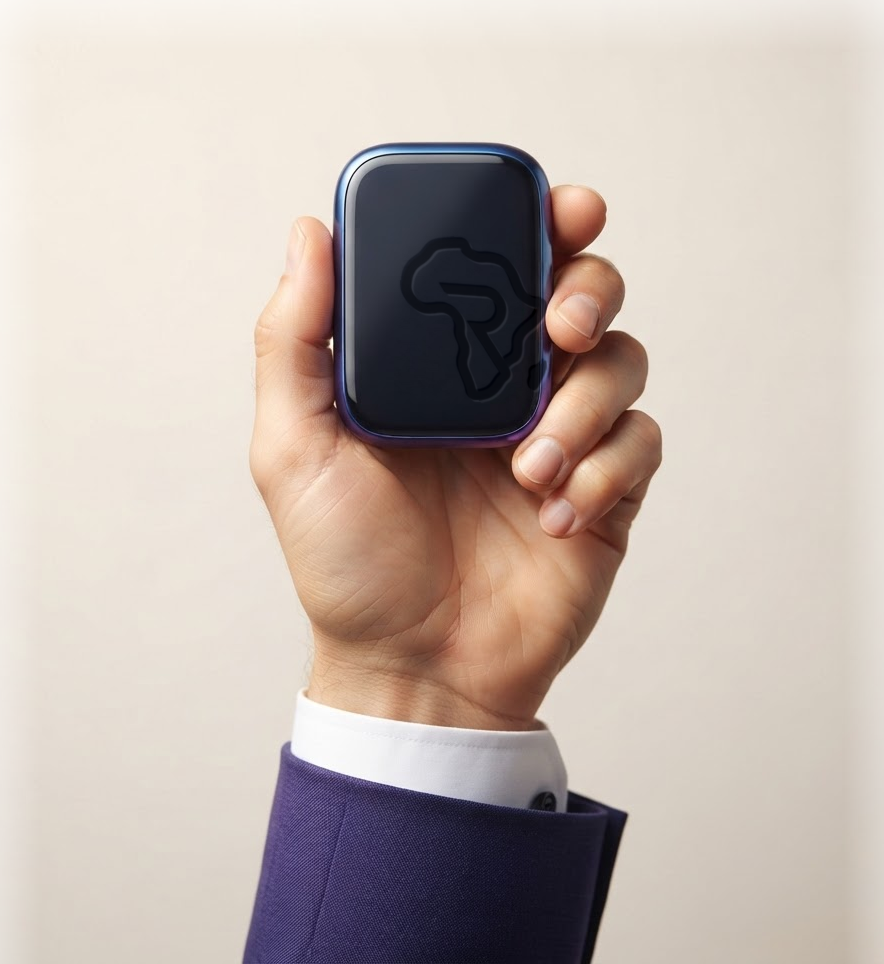
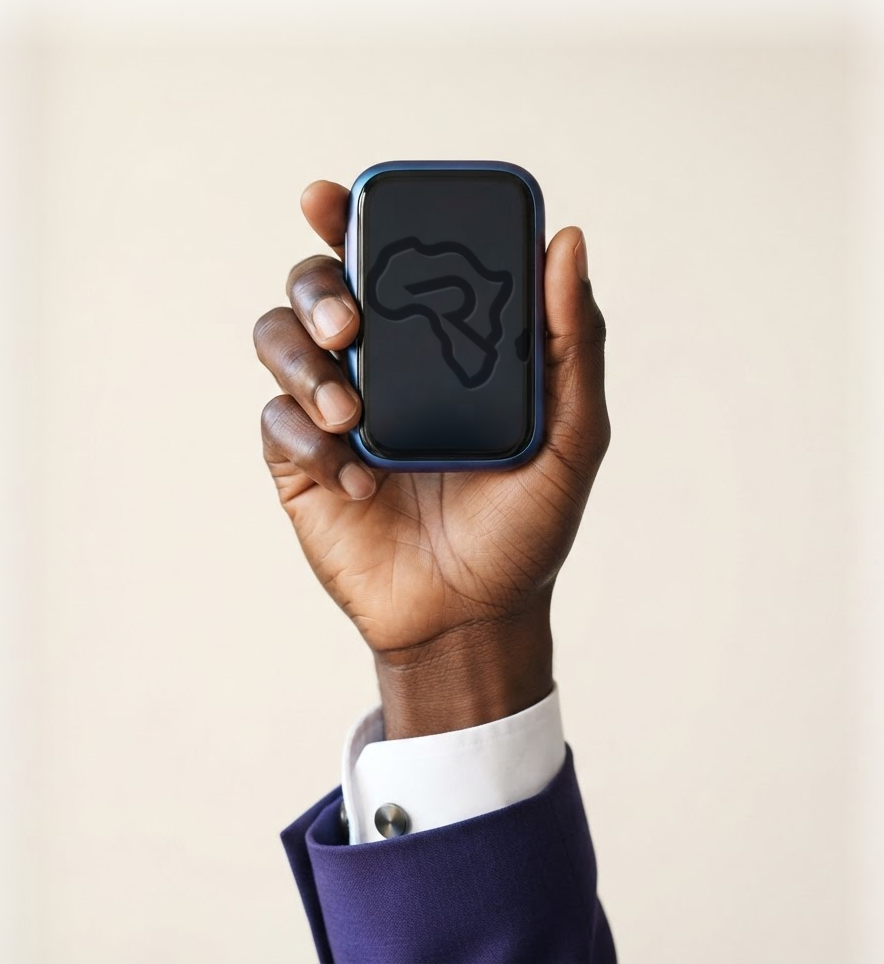
Signature hero live: engraved emblem on device, new copy and art direction

Changed region(s): [[0.0611, 0.1245, 1.0, 1.0]]

diff --git a/src/sections/Hero.jsx b/src/sections/Hero.jsx
@@ -1,39 +1,60 @@
-import { LogoFull } from '../components/Logo.jsx';
 import { Arrow } from '../components/Icons.jsx';
 
 /*
- * Hero. Composition follows the reference's principles (minimal navigation,
- * centred headline, two calls to action, faint technical detail, one strong
- * focal object) but with AFRIVERSE branding. The focal object is the official
- * logo on a dark panel; no stock photography or fabricated interface.
+ * Signature hero. Composition follows the supplied reference: ivory field,
+ * centred eyebrow, headline and two calls to action; the photoreal hand-and-
+ * device rises from the bottom centre. Interface graphics behind the hand are
+ * implemented in SVG so the single photographic asset stays responsive.
+ * Draft marketing copy — to be refined against the official company document.
  */
 export default function Hero() {
   return (
-    <section id="top" className="hero section--ivory on-ivory" aria-labelledby="hero-title">
+    <section id="top" className="hero hero--signature section--ivory on-ivory" aria-labelledby="hero-title">
       <div className="hero__grid-bg" aria-hidden="true" />
+      <svg className="hero__tech" viewBox="0 0 1440 900" preserveAspectRatio="xMidYMid slice" aria-hidden="true" focusable="false">
+        {/* faint workflow diagram, left */}
+        <g className="tech-left" transform="translate(80,210)">
+          <circle cx="0" cy="0" r="5" /><circle cx="120" cy="46" r="5" /><circle cx="60" cy="150" r="5" /><circle cx="190" cy="170" r="5" />
+          <path d="M5 3 L112 43 M124 51 L66 144 M72 154 L184 168" />
+          <rect x="18" y="86" width="120" height="26" rx="13" />
+        </g>
+        {/* faint data panel, right */}
+        <g className="tech-right" transform="translate(1130,170)">
+          <rect width="220" height="130" rx="16" />
+          <path d="M24 96 L48 72 L72 84 L96 52 L120 64 L144 34 L168 46" />
+          <circle cx="24" cy="96" r="3.5" /><circle cx="48" cy="72" r="3.5" /><circle cx="72" cy="84" r="3.5" />
+          <circle cx="96" cy="52" r="3.5" /><circle cx="120" cy="64" r="3.5" /><circle cx="144" cy="34" r="3.5" /><circle cx="168" cy="46" r="3.5" />
+        </g>
+        {/* barely visible abstract panel, far right */}
+        <g className="tech-faint" transform="translate(1240,430)">
+          <rect width="150" height="90" rx="12" />
+          <line x1="20" y1="26" x2="86" y2="26" /><line x1="20" y1="44" x2="120" y2="44" /><line x1="20" y1="62" x2="72" y2="62" />
+        </g>
+      </svg>
+
       <div className="container hero__inner">
-        <p className="eyebrow">AI automation &amp; integration</p>
+        <p className="eyebrow">AI Integration &amp; Automation</p>
         <h1 id="hero-title" className="display hero__title">
-          Smarter operations,<br />
-          <span className="grad-text">limitless impact.</span>
+          Smarter Systems.<br />
+          <span className="grad-text">Limitless Possibilities.</span>
         </h1>
         <p className="lead hero__lead">
-          AFRIVERSE designs and connects AI and automation that remove repetitive manual work,
-          link your business systems and make every customer interaction smoother.
+          Connect your business processes, automate repetitive work, and create more room
+          for meaningful growth with intelligent automation.
         </p>
         <div className="hero__actions">
-          <a href="#contact" className="btn btn--dark">Request a Consultation <Arrow className="arrow" width={18} height={18} /></a>
-          <a href="#workflows" className="btn btn--outline-ink">See how it works</a>
+          <a href="#services" className="btn btn--primary">Explore Our Solutions <Arrow className="arrow" width={18} height={18} /></a>
+          <a href="#contact" className="btn btn--outline-ink">Book a Consultation</a>
         </div>
 
-        <figure className="hero__stage">
-          <div className="hero__panel">
-            <div className="hero__panel-glow" aria-hidden="true" />
-            <LogoFull width={420} />
-            <ul className="hero__chips" aria-label="What AFRIVERSE connects">
-              <li>Enquiries</li><li>Bookings</li><li>Messaging</li><li>Follow-up</li><li>Reporting</li>
-            </ul>
-          </div>
+        <figure className="hero__hand">
+          <img
+            src="/brand/hero-hand.png"
+            width="884" height="964"
+            alt="A hand holding a premium connected AI device engraved with the AFRIVERSE emblem"
+            decoding="async"
+            fetchpriority="high"
+          />
         </figure>
       </div>
     </section>

diff --git a/src/sections.css b/src/sections.css
@@ -31,31 +31,37 @@
   .menu-toggle, .mobile-menu { display: none !important; }
 }
 
-/* ---------- Hero (ivory) ---------- */
-.hero { padding-top: calc(var(--header-h) + clamp(3rem, 7vw, 6rem)); padding-bottom: clamp(3rem, 6vw, 5rem); overflow: hidden; }
+/* ---------- Hero (signature, ivory) ---------- */
+.hero { position: relative; overflow: hidden; padding-bottom: 0; }
 .hero__grid-bg {
   position: absolute; inset: 0; pointer-events: none; opacity: .5;
   background-image: linear-gradient(var(--c-line-light) 1px, transparent 1px), linear-gradient(90deg, var(--c-line-light) 1px, transparent 1px);
   background-size: 64px 64px;
-  -webkit-mask-image: radial-gradient(ellipse 70% 55% at 50% 30%, #000 20%, transparent 75%);
-  mask-image: radial-gradient(ellipse 70% 55% at 50% 30%, #000 20%, transparent 75%);
+  -webkit-mask-image: radial-gradient(ellipse 75% 62% at 50% 34%, #000 25%, transparent 78%);
+  mask-image: radial-gradient(ellipse 75% 62% at 50% 34%, #000 25%, transparent 78%);
 }
-.hero__inner { position: relative; display: flex; flex-direction: column; align-items: center; text-align: center; }
+.hero__tech { position: absolute; inset: 0; width: 100%; height: 100%; pointer-events: none; }
+.hero__tech g { fill: none; stroke: url(); }
+.hero__tech circle { fill: currentColor; stroke: none; }
+.hero__tech .tech-left { color: #258bff; stroke: #258bff; opacity: .16; }
+.hero__tech .tech-left rect { fill: rgba(37,139,255,.05); }
+.hero__tech .tech-right { color: #8255f6; stroke: #8255f6; opacity: .16; }
+.hero__tech .tech-right rect { fill: rgba(130,85,246,.05); }
+.hero__tech .tech-faint { stroke: #258bff; opacity: .10; }
+.hero__tech .tech-faint rect { fill: rgba(37,139,255,.03); }
+.hero__inner { position: relative; display: flex; flex-direction: column; align-items: center; text-align: center; padding-top: calc(var(--header-h) + clamp(3rem, 8vw, 6.5rem)); }
 .hero .eyebrow { justify-content: center; }
-.hero__title { max-width: 14ch; }
-.hero__lead { margin-inline: auto; }
-.hero__actions { display: flex; flex-wrap: wrap; gap: .75rem; justify-content: center; margin-top: 2rem; }
-.hero__stage { width: 100%; margin-top: clamp(2.5rem, 6vw, 4.5rem); }
-.hero__panel {
-  position: relative; overflow: hidden; background: var(--c-black); color: var(--c-white);
-  border-radius: var(--radius-lg); padding: clamp(1.75rem, 5vw, 3.5rem) clamp(1rem, 4vw, 3rem) clamp(1.5rem, 3vw, 2.25rem);
-  display: flex; flex-direction: column; align-items: center; gap: 1.5rem;
-  box-shadow: 0 40px 80px -40px rgba(11, 11, 18, .6);
+.hero__title { max-width: 15ch; }
+.hero__lead { margin-inline: auto; max-width: 46ch; }
+.hero__actions { display: flex; flex-wrap: wrap; gap: .8rem; justify-content: center; margin-top: 2.1rem; }
+.hero__hand { position: relative; display: flex; justify-content: center; margin-top: clamp(1.5rem, 4vw, 3rem); line-height: 0; }
+.hero__hand img { height: clamp(300px, 46vh, 520px); width: auto; }
+@media (min-width: 980px) {
+  .hero__hand img { height: clamp(440px, 56vh, 600px); }
 }
-.hero__panel-glow { position: absolute; inset: auto 0 -40% 0; height: 70%; background: radial-gradient(ellipse at 50% 100%, rgba(130,85,246,.28), transparent 65%); pointer-events: none; }
-.hero__panel .logo-full { position: relative; max-width: 78%; height: auto; }
-.hero__chips { position: relative; display: flex; flex-wrap: wrap; justify-content: center; gap: .5rem; }
-.hero__chips li { padding: .35rem .9rem; font-size: .8rem; color: var(--c-grey); border: 1px solid var(--c-line-dark-strong); border-radius: 999px; }
+@media (max-width: 500px) {
+  .hero__hand img { height: clamp(280px, 42vh, 360px); }
+}
 
 /* ---------- Intro ---------- */
 .intro__grid { display: grid; gap: clamp(2.5rem, 6vw, 5rem); }
